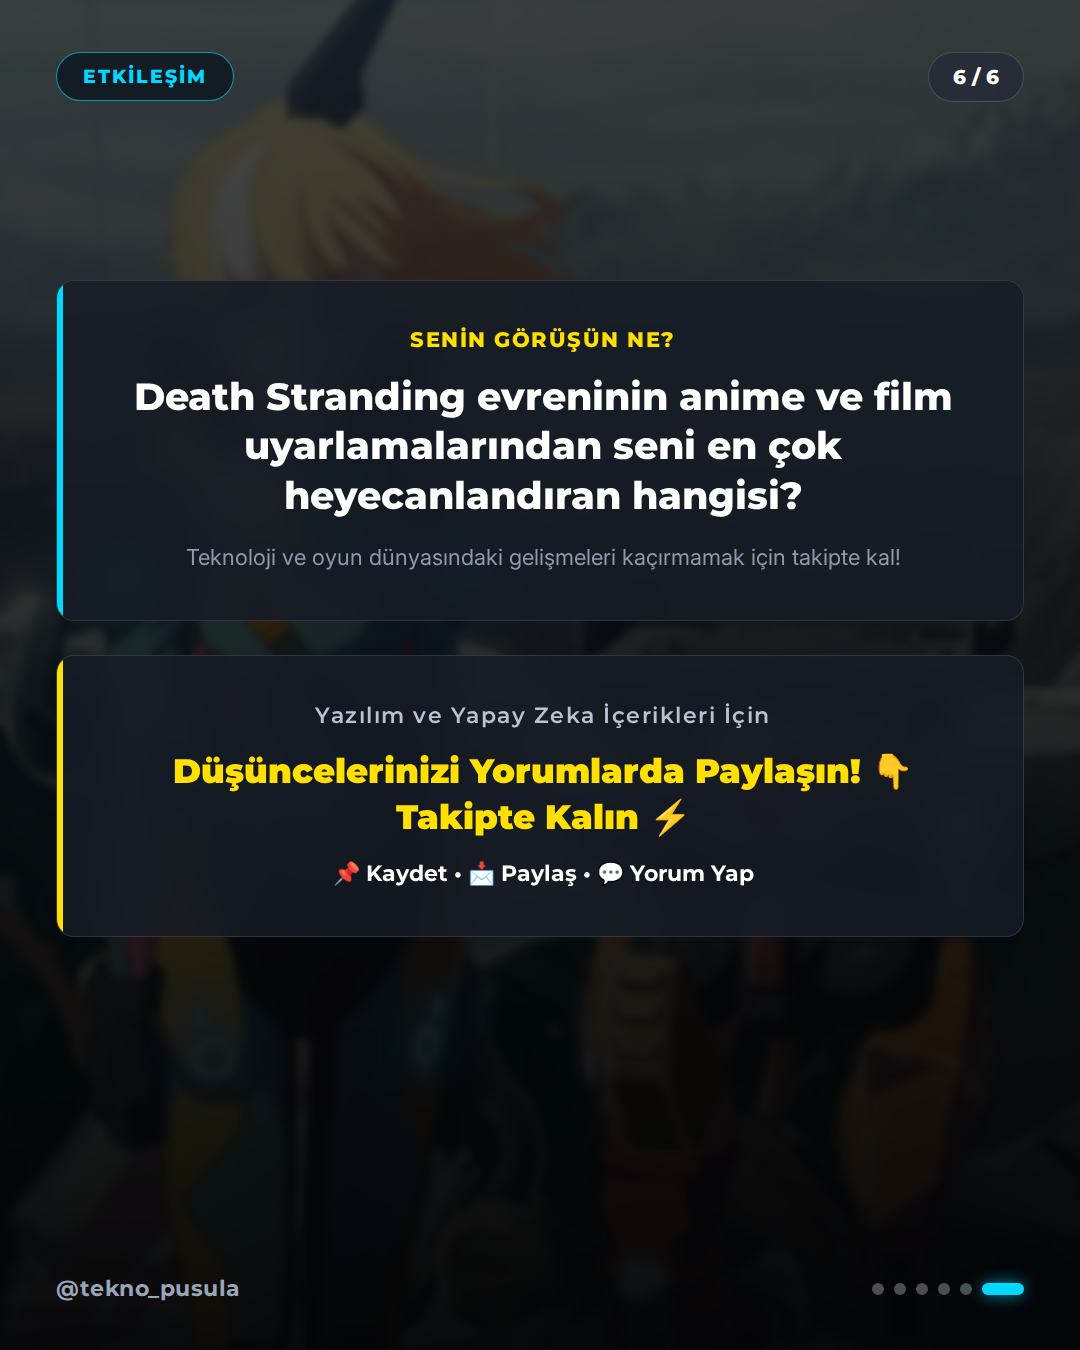
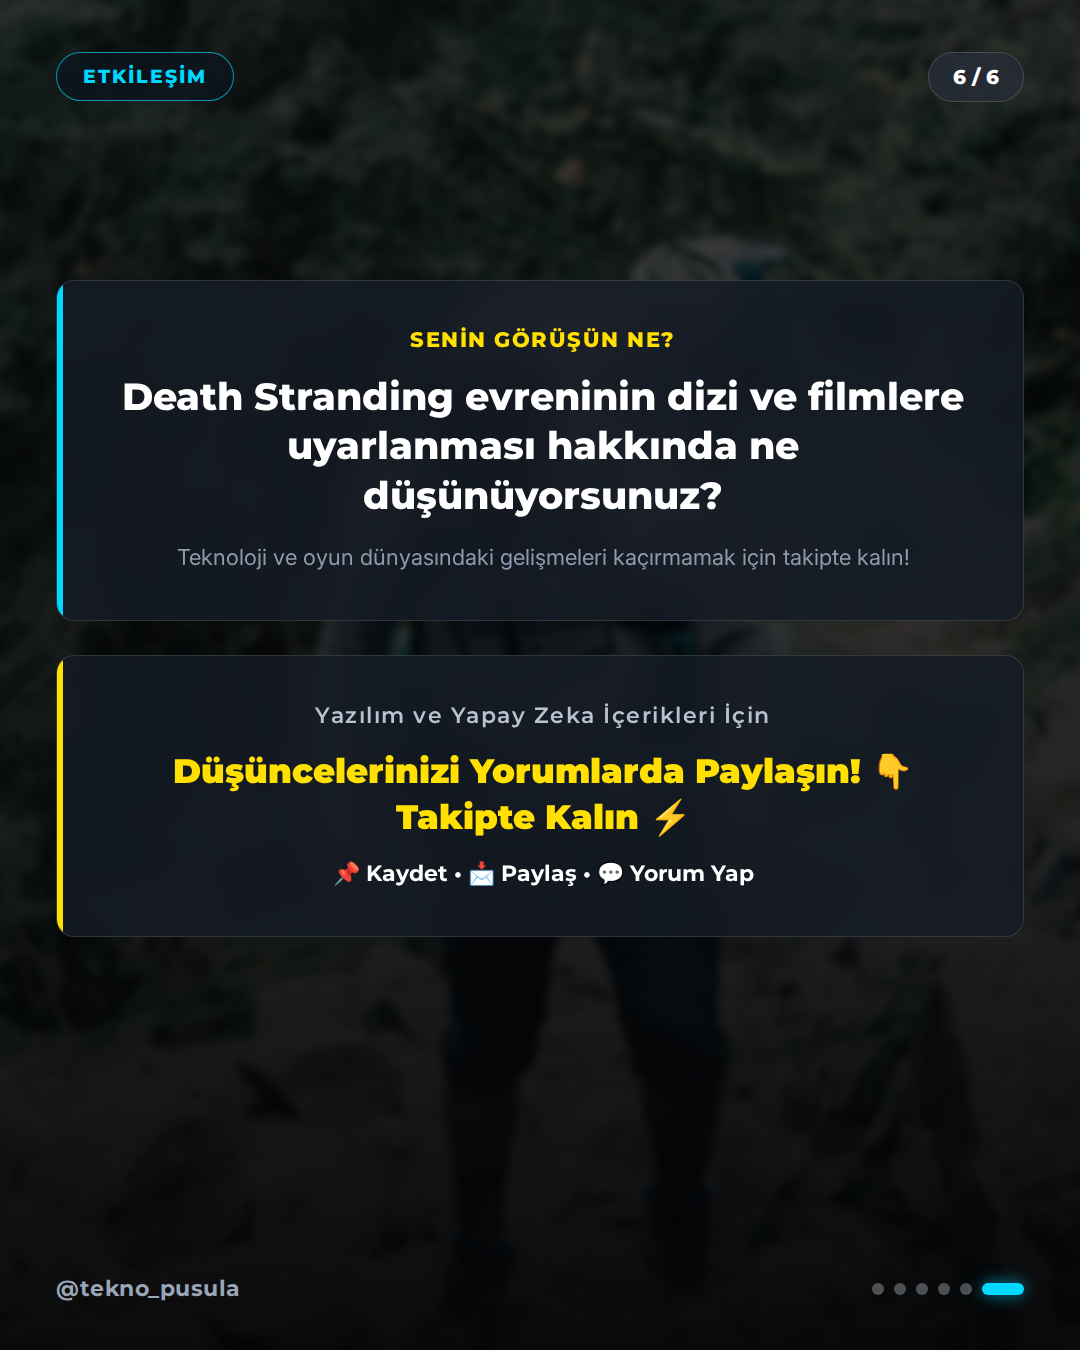
🤖 post: 2026-10-30 18:00 – The Death Stranding anime's first teaser trailer arrives ahe

diff --git a/output/2026-10-30/04-1800-the-death-stranding-anime-s-first-teaser-trailer/verification.md b/output/2026-10-30/04-1800-the-death-stranding-anime-s-first-teaser-trailer/verification.md
@@ -3,50 +3,52 @@
 **Haber:** The Death Stranding anime's first teaser trailer arrives ahead of its Disney+ debut
 **Canonical URL:** https://www.engadget.com/2302296/the-death-stranding-animes-first-teaser-trailer-arrives-ahead-of-its-disney-debut/
 **Kaynaklar:** Engadget, IEEE Spectrum, OpenAI News, Meta Newsroom (resmi alternatif)
-**Kontrol zamanı:** 2026-10-30T18:12:54+03:00
+**Kontrol zamanı:** 2026-10-30T18:23:15+03:00
 **Sonuç:** ✅ YAYINLANABİLİR
 
 ---
 
 ## İddia Bazlı Sonuçlar
 
-### 1. The Death Stranding anime is titled Death Stranding Isolations.
+### 1. Death Stranding animesinin ilk teaser fragmanı yayınlandı ve yapımın adı Death Stranding Isolations'dır.
 - **Karar:** ✅ `supported`
 - **Kanıtlar:**
   - [https://www.engadget.com/2302296/the-death-stranding-animes-first-teaser-trailer-arrives-ahead-of-its-disney-debut/](https://www.engadget.com/2302296/the-death-stranding-animes-first-teaser-trailer-arrives-ahead-of-its-disney-debut/)
-    > The brief look at Death Stranding Isolations has a few motifs from the game
+    > Kojima Productions has offered the first proper peek at the Death Stranding anime with a teaser trailer. The brief look at Death Stranding Isolations has a few motifs from the game
 
-### 2. Death Stranding Isolations will debut on Disney+ next year.
+### 2. Death Stranding Isolations, Disney+ platformunda gelecek yıl yayınlanacak.
 - **Karar:** ✅ `supported`
 - **Kanıtlar:**
   - [https://www.engadget.com/2302296/the-death-stranding-animes-first-teaser-trailer-arrives-ahead-of-its-disney-debut/](https://www.engadget.com/2302296/the-death-stranding-animes-first-teaser-trailer-arrives-ahead-of-its-disney-debut/)
     > Death Stranding Isolations will hit Disney+ sometime next year.
 
-### 3. The anime's tagline is My mom became a crater.
+### 3. Animenin resmi sloganı "My mom became a crater" şeklindedir.
 - **Karar:** ✅ `supported`
 - **Kanıtlar:**
   - [https://www.engadget.com/2302296/the-death-stranding-animes-first-teaser-trailer-arrives-ahead-of-its-disney-debut/](https://www.engadget.com/2302296/the-death-stranding-animes-first-teaser-trailer-arrives-ahead-of-its-disney-debut/)
     > The adaptation has a fittingly strange tagline: "My mom became a crater."
 
-### 4. Hideo Kojima is an executive producer on the Death Stranding anime.
+### 4. Hideo Kojima, animenin yapımcıları arasında yer almakta olup aynı zamanda oyunların co-writer, designer ve direktörüdür.
 - **Karar:** ✅ `supported`
 - **Kanıtlar:**
   - [https://www.engadget.com/2302296/the-death-stranding-animes-first-teaser-trailer-arrives-ahead-of-its-disney-debut/](https://www.engadget.com/2302296/the-death-stranding-animes-first-teaser-trailer-arrives-ahead-of-its-disney-debut/)
     > Kojima — the co-writer, designer and director of both Death Stranding games — is an executive producer on the anime
 
-### 5. The anime is directed by Takayuki Sano.
+### 5. Animenin yönetmenliğini Takayuki Sano yapmaktadır.
 - **Karar:** ✅ `supported`
 - **Kanıtlar:**
   - [https://www.engadget.com/2302296/the-death-stranding-animes-first-teaser-trailer-arrives-ahead-of-its-disney-debut/](https://www.engadget.com/2302296/the-death-stranding-animes-first-teaser-trailer-arrives-ahead-of-its-disney-debut/)
     > the anime, which is directed by Takayuki Sano.
+  - [https://www.engadget.com/2302296/the-death-stranding-animes-first-teaser-trailer-arrives-ahead-of-its-disney-debut/](https://www.engadget.com/2302296/the-death-stranding-animes-first-teaser-trailer-arrives-ahead-of-its-disney-debut/)
+    > which is directed by Takayuki Sano.
 
-### 6. An animated film dubbed Death Stranding Mosquito is currently in development.
+### 6. Death Stranding Mosquito adında animasyon bir film de geliştirilme aşamasındadır.
 - **Karar:** ✅ `supported`
 - **Kanıtlar:**
   - [https://www.engadget.com/2302296/the-death-stranding-animes-first-teaser-trailer-arrives-ahead-of-its-disney-debut/](https://www.engadget.com/2302296/the-death-stranding-animes-first-teaser-trailer-arrives-ahead-of-its-disney-debut/)
     > An animated film dubbed Death Stranding Mosquito is in development
 
-### 7. A live-action Death Stranding movie is in the works with the involvement of A24.
+### 7. A24 şirketinin dahil olduğu bir live-action film projesi de bulunmaktadır.
 - **Karar:** ✅ `supported`
 - **Kanıtlar:**
   - [https://www.engadget.com/2302296/the-death-stranding-animes-first-teaser-trailer-arrives-ahead-of-its-disney-debut/](https://www.engadget.com/2302296/the-death-stranding-animes-first-teaser-trailer-arrives-ahead-of-its-disney-debut/)
@@ -58,13 +60,13 @@
 
 | İddia | 1. Tur | 2. Tur | Nihai |
 |-------|--------|--------|-------|
-| The Death Stranding anime is titled Death Stranding Isolatio | supported | supported | supported |
-| Death Stranding Isolations will debut on Disney+ next year. | supported | supported | supported |
-| The anime's tagline is My mom became a crater. | supported | supported | supported |
-| Hideo Kojima is an executive producer on the Death Stranding | supported | supported | supported |
-| The anime is directed by Takayuki Sano. | supported | supported | supported |
-| An animated film dubbed Death Stranding Mosquito is currentl | supported | supported | supported |
-| A live-action Death Stranding movie is in the works with the | supported | supported | supported |
+| Death Stranding animesinin ilk teaser fragmanı yayınlandı ve | supported | supported | supported |
+| Death Stranding Isolations, Disney+ platformunda gelecek yıl | supported | supported | supported |
+| Animenin resmi sloganı "My mom became a crater" şeklindedir. | supported | supported | supported |
+| Hideo Kojima, animenin yapımcıları arasında yer almakta olup | supported | supported | supported |
+| Animenin yönetmenliğini Takayuki Sano yapmaktadır. | supported | supported | supported |
+| Death Stranding Mosquito adında animasyon bir film de gelişt | supported | supported | supported |
+| A24 şirketinin dahil olduğu bir live-action film projesi de  | supported | supported | supported |
 
 ## Kaynak Metinleri
 

diff --git a/output/2026-10-30/04-1800-the-death-stranding-anime-s-first-teaser-trailer/captions.md b/output/2026-10-30/04-1800-the-death-stranding-anime-s-first-teaser-trailer/captions.md
@@ -2,36 +2,68 @@
 
 ## INSTAGRAM
 
-Death Stranding evreni sinema ve televizyona genişliyor! Hideo Kojima'nın yönetici yapımcılığında hazırlanan Death Stranding Isolations anime dizisi gelecek yıl Disney+ platformunda izleyiciyle buluşacak. Ayrıca Death Stranding Mosquito animasyon filmi ve A24 ortaklığıyla geliştirilen live-action film projesi de yolda. Sence seni en çok heyecanlandıran hangisi? Kaynak: Engadget, IEEE Spectrum
+Death Stranding evreni genişliyor! Death Stranding Isolations adını taşıyan yeni anime, önümüzdeki yıl Disney+ platformunda yayınlanacak. Hideo Kojima'nın yapımcıları arasında yer aldığı bu heyecan verici yapımın yönetmenliğini Takayuki Sano üstleniyor. Ayrıca 'My mom became a crater' sloganıyla yayınlanan ilk teaser büyük merak uyandırdı.
 
-#DeathStranding #HideoKojima #DisneyPlus #Anime #Oyun #Teknoloji #Sinema #A24 #Gaming #TeknolojiHaberleri
+Animenin yanı sıra Death Stranding Mosquito animasyon filmi ve A24 ortaklığıyla geliştirilen bir live-action film projesi de yolda.
+
+Siz bu uyarlamalar hakkında ne düşünüyorsunuz?
+
+Kaynak: Engadget, IEEE Spectrum
+
+#DeathStranding #DeathStrandingIsolations #DisneyPlus #HideoKojima #Anime #Teknoloji #Oyun #Gaming #Geek #Haber
 
 ## TIKTOK
 
-Death Stranding evreni büyüyor! Anime dizisi, animasyon filmi ve A24 ortaklı live-action film geliyor! Hideo Kojima iş başında. Kaynak: Engadget
+Death Stranding animesi geliyor! Adı Death Stranding Isolations ve önümüzdeki yıl Disney+'ta yayınlanacak. Hideo Kojima yapımcılar arasında, yönetmen ise Takayuki Sano. Slogan ise çok iddialı: "My mom became a crater!" Ayrıca A24'ten live-action film de yolda. Detaylar için takipte kalın!
 
-#DeathStranding #Kojima #Anime #Gaming #Teknoloji
+Kaynak: Engadget
+
+#DeathStranding #DisneyPlus #HideoKojima #Anime #Oyun
 
 ## X
 
-Death Stranding evreni genişliyor! 'Death Stranding Isolations' anime dizisi gelecek yıl Disney+'ta yayınlanacak. Ayrıca bir animasyon film ve A24 ortaklı live-action film de yolda. Hideo Kojima projede yönetici yapımcı. Kaynak: Engadget, IEEE Spectrum
+Death Stranding animesi Death Stranding Isolations, önümüzdeki yıl Disney+'ta yayınlanacak! Hideo Kojima'nın yapımcıları arasında olduğu projenin yönetmeni Takayuki Sano. Ayrıca Mosquito animasyonu ve A24 live-action filmi de yolda.
 
-#DeathStranding #Gaming
+Kaynak: Engadget
+
+#DeathStranding #DisneyPlus
+
+#DeathStranding #DisneyPlus
 
 ## THREADS
 
-Death Stranding evreni sinema ve ekranlara taşınıyor! Death Stranding Isolations anime dizisi gelecek yıl Disney+ platformunda yayınlanacak. Ayrıca bir animasyon film ve A24 ortaklı live-action sinema filmi de hazırlık aşamasında. Hideo Kojima projelerin başında yer alıyor. Sence en heyecan verici olan hangisi? 💭 Kaynak: Engadget
+Death Stranding evreni büyüyor! 🎮
+
+Death Stranding Isolations animesi önümüzdeki yıl Disney+ platformunda yayınlanacak. Hideo Kojima'nın yapımcıları arasında yer aldığı projenin yönetmenliğini Takayuki Sano yapıyor. Ayrıca A24 iş birliğiyle bir live-action film de geliştiriliyor.
+
+Death Stranding evreninin bu uyarlamaları hakkında ne düşünüyorsunuz?
+
+💭 Kaynak: Engadget
 
 #DeathStranding
 
 ## LINKEDIN
 
-Oyun ve eğlence sektöründe büyük gelişmeler yaşanmaya devam ediyor. Hideo Kojima'nın yaratıcısı olduğu Death Stranding evreni; anime dizisi, animasyon film ve A24 iş birliğiyle hayata geçirilecek live-action sinema uyarlaması ile genişliyor. Kültür, sanat ve teknoloji entegrasyonunun en yeni örneklerini yakından takip ediyoruz. Kaynak: Engadget, IEEE Spectrum
+Oyun ve eğlence sektöründe transmedya hikaye anlatımı genişlemeye devam ediyor. Popüler yapım Death Stranding, animasyon diziler ve sinema filmleriyle evrenini büyütüyor.
 
-#DeathStranding #HideoKojima #Teknoloji #EğlenceSektörü #Sinema
+Death Stranding Isolations adlı anime dizisi önümüzdeki yıl Disney+ ekranlarında izleyiciyle buluşacak. Hideo Kojima'nın yapımcıları arasında yer aldığı projede yönetmen koltuğunda Takayuki Sano oturuyor. Temel animasyon dizisinin yanı sıra, A24 iş birliğiyle geliştirilen live-action sinema filmi de sektördeki projeler arasında yer alıyor.
+
+Dijital içerik evrenlerinin farklı medya formatlarına uyarlanması hakkındaki stratejik öngörüleriniz nelerdir?
+
+Kaynak: Engadget, IEEE Spectrum
+
+#Teknoloji #OyunSektörü #Medya #Eğlence #İnovasyon
 
 ## FACEBOOK
 
-Death Stranding evreni sinema ve ekranlara genişliyor! Death Stranding Isolations anime dizisi gelecek yıl Disney+ platformunda izleyiciyle buluşacak. Hideo Kojima'nın yönetici yapımcılığını üstlendiği projeler arasında animasyon filmler ve A24 ortaklı live-action film de yer alıyor. Sen bu evrenin hangi uyarlamasını daha çok merak ediyorsun? Kaynak: Engadget, IEEE Spectrum
+Death Stranding hayranlarına müjde! Evren hem animasyon diziler hem de sinema filmleriyle genişliyor.
 
-#DeathStranding #HideoKojima #DisneyPlus #Teknoloji #Oyun
+Death Stranding Isolations animesi, önümüzdeki yıl Disney+ platformunda yayınlanacak. Hideo Kojima'nın yapımcıları arasında olduğu yapımın yönetmenliğini Takayuki Sano üstleniyor. İlk teaser'da dikkat çeken "My mom became a crater" sloganı ise şimdiden büyük merak uyandırdı.
+
+Ayrıca Death Stranding Mosquito animasyon filmi ve A24'ün dahil olduğu live-action film projesi de geliştirilme aşamasında.
+
+Bu yeni projeler hakkında ne düşünüyorsunuz?
+
+Kaynak: Engadget, IEEE Spectrum
+
+#DeathStranding #DisneyPlus #HideoKojima #Anime #Film
